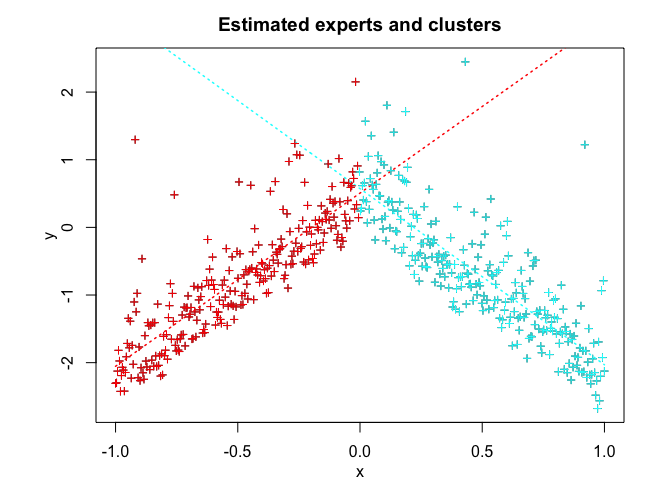
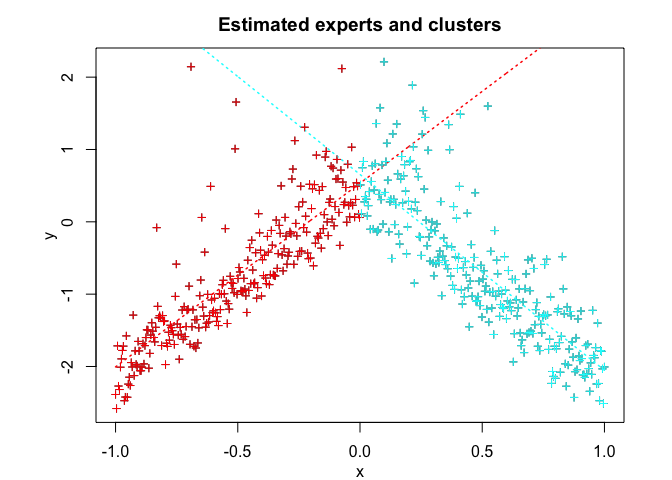
Change name of field 'nuk' in ParamStMoE class
- Change name of fields 'nuk' ('nuk' is changed into 'nu') in ParamStMoE class;
- Update vignette and README.Rmd (Add information about the model).

diff --git a/README.md b/README.md
@@ -5,7 +5,12 @@
 Overview
 ========
 
-User-friendly and flexible algorithm modelling, sampling, inference, and clustering heterogeneous data with the Skew-t Mixture-of-Experts (StMoE) model.
+**STMoE** (Skew-t Mixture-of-Experts) provides a flexible and robust modelling framework for heterogenous data with possibly skewed, heavy-tailed distributions and corrupted by atypical observations. **STMoE** consists of a mixture of *K* skew-t expert regressors network (of degree *p*) gated by a softmax gating network (of degree *q*) and is represented by:
+
+-   The gating network parameters `alpha`'s of the softmax net.
+-   The experts network parameters: The location parameters (regression coefficients) `beta`'s, scale parameters `sigma`'s, the skewness parameters `lambda`'s and the degree of freedom parameters `nu`'s. **STMoE** thus generalises mixtures of (normal, skew-normal, t, and skew-t) distributions and mixtures of regressions with these distributions. For example, when *q* = 0, we retrieve mixtures of (skew-t, t-, skew-normal, or normal) regressions, and when both *p* = 0 and *q* = 0, it is a mixture of (skew-t, t-, skew-normal, or normal) distributions. It also reduces to the standard (normal, skew-normal, t, and skew-t) distribution when we only use a single expert (*K* = 1).
+
+Model estimation/learning is performed by a dedicated expectation conditional maximization (ECM) algorithm by maximizing the observed data log-likelihood. We provide simulated examples to illustrate the use of the model in model-based clustering of heterogeneous regression data and in fitting non-linear regression functions.
 
 Installation
 ============
@@ -40,6 +45,8 @@ library(StMoE)
 ```
 
 ``` r
+# Applicartion to a simulated data set
+
 n <- 500 # Size of the sample
 alphak <- matrix(c(0, 8), ncol = 1) # Parameters of the gating network
 betak <- matrix(c(0, -2.5, 0, 2.5), ncol = 2) # Regression coefficients of the experts
@@ -65,83 +72,113 @@ verbose_IRLS <- FALSE
 
 stmoe <- emStMoE(X = x, Y = y, K, p, q, n_tries, max_iter, 
                  threshold, verbose, verbose_IRLS)
-#> EM - StMoE: Iteration: 1 | log-likelihood: -360.918219156259
-#> EM - StMoE: Iteration: 2 | log-likelihood: -340.312199740558
-#> EM - StMoE: Iteration: 3 | log-likelihood: -336.81199954955
-#> EM - StMoE: Iteration: 4 | log-likelihood: -334.678448612944
-#> EM - StMoE: Iteration: 5 | log-likelihood: -333.368786304469
-#> EM - StMoE: Iteration: 6 | log-likelihood: -332.378651904012
-#> EM - StMoE: Iteration: 7 | log-likelihood: -331.416370949352
-#> EM - StMoE: Iteration: 8 | log-likelihood: -330.311753264688
-#> EM - StMoE: Iteration: 9 | log-likelihood: -328.970616724365
-#> EM - StMoE: Iteration: 10 | log-likelihood: -327.36646546389
-#> EM - StMoE: Iteration: 11 | log-likelihood: -325.520020780522
-#> EM - StMoE: Iteration: 12 | log-likelihood: -323.49157231905
-#> EM - StMoE: Iteration: 13 | log-likelihood: -321.361097935629
-#> EM - StMoE: Iteration: 14 | log-likelihood: -319.21596748688
-#> EM - StMoE: Iteration: 15 | log-likelihood: -317.121529914793
-#> EM - StMoE: Iteration: 16 | log-likelihood: -315.129654375853
-#> EM - StMoE: Iteration: 17 | log-likelihood: -313.246021403366
-#> EM - StMoE: Iteration: 18 | log-likelihood: -311.455445437556
-#> EM - StMoE: Iteration: 19 | log-likelihood: -309.704743663328
-#> EM - StMoE: Iteration: 20 | log-likelihood: -307.923603673431
-#> EM - StMoE: Iteration: 21 | log-likelihood: -306.019731688503
-#> EM - StMoE: Iteration: 22 | log-likelihood: -303.901066199451
-#> EM - StMoE: Iteration: 23 | log-likelihood: -301.517077133633
-#> EM - StMoE: Iteration: 24 | log-likelihood: -298.871583437327
-#> EM - StMoE: Iteration: 25 | log-likelihood: -296.033769613469
-#> EM - StMoE: Iteration: 26 | log-likelihood: -293.105729159314
-#> EM - StMoE: Iteration: 27 | log-likelihood: -290.206753682348
-#> EM - StMoE: Iteration: 28 | log-likelihood: -287.445087104632
-#> EM - StMoE: Iteration: 29 | log-likelihood: -284.891400022567
-#> EM - StMoE: Iteration: 30 | log-likelihood: -282.588998983271
-#> EM - StMoE: Iteration: 31 | log-likelihood: -280.538384368292
-#> EM - StMoE: Iteration: 32 | log-likelihood: -278.722892569404
-#> EM - StMoE: Iteration: 33 | log-likelihood: -277.126497158683
-#> EM - StMoE: Iteration: 34 | log-likelihood: -275.718473001408
-#> EM - StMoE: Iteration: 35 | log-likelihood: -274.47750494225
-#> EM - StMoE: Iteration: 36 | log-likelihood: -273.385692944314
-#> EM - StMoE: Iteration: 37 | log-likelihood: -272.424525385644
-#> EM - StMoE: Iteration: 38 | log-likelihood: -271.580447029384
-#> EM - StMoE: Iteration: 39 | log-likelihood: -270.837718253819
-#> EM - StMoE: Iteration: 40 | log-likelihood: -270.183014154754
-#> EM - StMoE: Iteration: 41 | log-likelihood: -269.604365407485
-#> EM - StMoE: Iteration: 42 | log-likelihood: -269.092069487677
-#> EM - StMoE: Iteration: 43 | log-likelihood: -268.638534752714
-#> EM - StMoE: Iteration: 44 | log-likelihood: -268.237219536561
-#> EM - StMoE: Iteration: 45 | log-likelihood: -267.881642979585
-#> EM - StMoE: Iteration: 46 | log-likelihood: -267.566373686613
-#> EM - StMoE: Iteration: 47 | log-likelihood: -267.287556449449
-#> EM - StMoE: Iteration: 48 | log-likelihood: -267.041240612947
-#> EM - StMoE: Iteration: 49 | log-likelihood: -266.823545537698
-#> EM - StMoE: Iteration: 50 | log-likelihood: -266.630898066496
-#> EM - StMoE: Iteration: 51 | log-likelihood: -266.460485139253
-#> EM - StMoE: Iteration: 52 | log-likelihood: -266.309690019672
-#> EM - StMoE: Iteration: 53 | log-likelihood: -266.176275700902
-#> EM - StMoE: Iteration: 54 | log-likelihood: -266.058299377502
-#> EM - StMoE: Iteration: 55 | log-likelihood: -265.954030565764
-#> EM - StMoE: Iteration: 56 | log-likelihood: -265.861857108267
-#> EM - StMoE: Iteration: 57 | log-likelihood: -265.780554931916
-#> EM - StMoE: Iteration: 58 | log-likelihood: -265.708884053501
-#> EM - StMoE: Iteration: 59 | log-likelihood: -265.645859773318
-#> EM - StMoE: Iteration: 60 | log-likelihood: -265.590923652102
-#> EM - StMoE: Iteration: 61 | log-likelihood: -265.543076918013
-#> EM - StMoE: Iteration: 62 | log-likelihood: -265.501460541303
-#> EM - StMoE: Iteration: 63 | log-likelihood: -265.465422522564
-#> EM - StMoE: Iteration: 64 | log-likelihood: -265.434206715802
-#> EM - StMoE: Iteration: 65 | log-likelihood: -265.407252143426
-#> EM - StMoE: Iteration: 66 | log-likelihood: -265.384060024206
-#> EM - StMoE: Iteration: 67 | log-likelihood: -265.364189492324
-#> EM - StMoE: Iteration: 68 | log-likelihood: -265.34726752057
-#> EM - StMoE: Iteration: 69 | log-likelihood: -265.333111496709
-#> EM - StMoE: Iteration: 70 | log-likelihood: -265.321370917609
-#> EM - StMoE: Iteration: 71 | log-likelihood: -265.311847233682
-#> EM - StMoE: Iteration: 72 | log-likelihood: -265.304507732154
-#> EM - StMoE: Iteration: 73 | log-likelihood: -265.298987571741
-#> EM - StMoE: Iteration: 74 | log-likelihood: -265.295016966408
-#> EM - StMoE: Iteration: 75 | log-likelihood: -265.292399201274
+#> EM - StMoE: Iteration: 1 | log-likelihood: -401.875435809204
+#> EM - StMoE: Iteration: 2 | log-likelihood: -337.477110077301
+#> EM - StMoE: Iteration: 3 | log-likelihood: -333.615767910121
+#> EM - StMoE: Iteration: 4 | log-likelihood: -330.111312841908
+#> EM - StMoE: Iteration: 5 | log-likelihood: -326.917627211007
+#> EM - StMoE: Iteration: 6 | log-likelihood: -324.051395332145
+#> EM - StMoE: Iteration: 7 | log-likelihood: -321.514182102334
+#> EM - StMoE: Iteration: 8 | log-likelihood: -319.290135019707
+#> EM - StMoE: Iteration: 9 | log-likelihood: -317.345441551248
+#> EM - StMoE: Iteration: 10 | log-likelihood: -315.63985448757
+#> EM - StMoE: Iteration: 11 | log-likelihood: -314.124403121355
+#> EM - StMoE: Iteration: 12 | log-likelihood: -312.764765497604
+#> EM - StMoE: Iteration: 13 | log-likelihood: -311.53880220896
+#> EM - StMoE: Iteration: 14 | log-likelihood: -310.442219383031
+#> EM - StMoE: Iteration: 15 | log-likelihood: -309.461472055389
+#> EM - StMoE: Iteration: 16 | log-likelihood: -308.56567749316
+#> EM - StMoE: Iteration: 17 | log-likelihood: -307.716979842876
+#> EM - StMoE: Iteration: 18 | log-likelihood: -306.878441159492
+#> EM - StMoE: Iteration: 19 | log-likelihood: -306.015921604392
+#> EM - StMoE: Iteration: 20 | log-likelihood: -305.101893903146
+#> EM - StMoE: Iteration: 21 | log-likelihood: -304.119133583187
+#> EM - StMoE: Iteration: 22 | log-likelihood: -303.054099432744
+#> EM - StMoE: Iteration: 23 | log-likelihood: -301.905764906729
+#> EM - StMoE: Iteration: 24 | log-likelihood: -300.685652021046
+#> EM - StMoE: Iteration: 25 | log-likelihood: -299.419897252595
+#> EM - StMoE: Iteration: 26 | log-likelihood: -298.14232003597
+#> EM - StMoE: Iteration: 27 | log-likelihood: -296.891003783925
+#> EM - StMoE: Iteration: 28 | log-likelihood: -295.695879770797
+#> EM - StMoE: Iteration: 29 | log-likelihood: -294.584368951117
+#> EM - StMoE: Iteration: 30 | log-likelihood: -293.571367218735
+#> EM - StMoE: Iteration: 31 | log-likelihood: -292.661755632404
+#> EM - StMoE: Iteration: 32 | log-likelihood: -291.859412580661
+#> EM - StMoE: Iteration: 33 | log-likelihood: -291.157070745516
+#> EM - StMoE: Iteration: 34 | log-likelihood: -290.548867853095
+#> EM - StMoE: Iteration: 35 | log-likelihood: -290.024516787423
+#> EM - StMoE: Iteration: 36 | log-likelihood: -289.579343050895
+#> EM - StMoE: Iteration: 37 | log-likelihood: -289.204274620518
+#> EM - StMoE: Iteration: 38 | log-likelihood: -288.887304783523
+#> EM - StMoE: Iteration: 39 | log-likelihood: -288.619299932711
+#> EM - StMoE: Iteration: 40 | log-likelihood: -288.394060854014
+#> EM - StMoE: Iteration: 41 | log-likelihood: -288.208138736313
+#> EM - StMoE: Iteration: 42 | log-likelihood: -288.057211115457
+#> EM - StMoE: Iteration: 43 | log-likelihood: -287.935937429852
+#> EM - StMoE: Iteration: 44 | log-likelihood: -287.837686760774
+#> EM - StMoE: Iteration: 45 | log-likelihood: -287.758009324673
+#> EM - StMoE: Iteration: 46 | log-likelihood: -287.693505506518
+#> EM - StMoE: Iteration: 47 | log-likelihood: -287.641479121032
+#> EM - StMoE: Iteration: 48 | log-likelihood: -287.601070274841
+#> EM - StMoE: Iteration: 49 | log-likelihood: -287.571480227775
+#> EM - StMoE: Iteration: 50 | log-likelihood: -287.550936521553
+#> EM - StMoE: Iteration: 51 | log-likelihood: -287.537249640429
+#> EM - StMoE: Iteration: 52 | log-likelihood: -287.529681605006
+#> EM - StMoE: Iteration: 53 | log-likelihood: -287.526784058083
+#> EM - StMoE: Iteration: 54 | log-likelihood: -287.527417246547
 
 stmoe$plot()
 ```
 
 <img src="man/figures/README-unnamed-chunk-6-1.png" style="display: block; margin: auto;" /><img src="man/figures/README-unnamed-chunk-6-2.png" style="display: block; margin: auto;" /><img src="man/figures/README-unnamed-chunk-6-3.png" style="display: block; margin: auto;" /><img src="man/figures/README-unnamed-chunk-6-4.png" style="display: block; margin: auto;" />
+
+``` r
+# Applicartion to a real data set
+
+library(MASS)
+data("mcycle")
+x <- mcycle$times
+y <- mcycle$accel
+
+K <- 4 # Number of regressors/experts
+p <- 2 # Order of the polynomial regression (regressors/experts)
+q <- 1 # Order of the logistic regression (gating network)
+
+n_tries <- 1
+max_iter <- 1500
+threshold <- 1e-5
+verbose <- TRUE
+verbose_IRLS <- FALSE
+
+stmoe <- emStMoE(X = x, Y = y, K, p, q, n_tries, max_iter, 
+                 threshold, verbose, verbose_IRLS)
+#> EM - StMoE: Iteration: 1 | log-likelihood: -594.443848052501
+#> EM - StMoE: Iteration: 2 | log-likelihood: -588.502181624495
+#> EM - StMoE: Iteration: 3 | log-likelihood: -584.186980702196
+#> EM - StMoE: Iteration: 4 | log-likelihood: -582.404030975252
+#> EM - StMoE: Iteration: 5 | log-likelihood: -580.937813111496
+#> EM - StMoE: Iteration: 6 | log-likelihood: -579.423652549973
+#> EM - StMoE: Iteration: 7 | log-likelihood: -576.622050361883
+#> EM - StMoE: Iteration: 8 | log-likelihood: -570.953747711981
+#> EM - StMoE: Iteration: 9 | log-likelihood: -565.635572832749
+#> EM - StMoE: Iteration: 10 | log-likelihood: -562.282158040806
+#> EM - StMoE: Iteration: 11 | log-likelihood: -560.730917766499
+#> EM - StMoE: Iteration: 12 | log-likelihood: -559.942176077191
+#> EM - StMoE: Iteration: 13 | log-likelihood: -559.405646251887
+#> EM - StMoE: Iteration: 14 | log-likelihood: -558.951217277183
+#> EM - StMoE: Iteration: 15 | log-likelihood: -558.507765685732
+#> EM - StMoE: Iteration: 16 | log-likelihood: -558.029259677093
+#> EM - StMoE: Iteration: 17 | log-likelihood: -557.483925261304
+#> EM - StMoE: Iteration: 18 | log-likelihood: -556.885711396855
+#> EM - StMoE: Iteration: 19 | log-likelihood: -556.335191609929
+#> EM - StMoE: Iteration: 20 | log-likelihood: -555.93437847599
+#> EM - StMoE: Iteration: 21 | log-likelihood: -555.69829587786
+#> EM - StMoE: Iteration: 22 | log-likelihood: -555.581028161933
+#> EM - StMoE: Iteration: 23 | log-likelihood: -555.528856112894
+#> EM - StMoE: Iteration: 24 | log-likelihood: -555.508227478769
+#> EM - StMoE: Iteration: 25 | log-likelihood: -555.504406448179
+
+stmoe$plot()
+```
+
+<img src="man/figures/README-unnamed-chunk-7-1.png" style="display: block; margin: auto;" /><img src="man/figures/README-unnamed-chunk-7-2.png" style="display: block; margin: auto;" /><img src="man/figures/README-unnamed-chunk-7-3.png" style="display: block; margin: auto;" /><img src="man/figures/README-unnamed-chunk-7-4.png" style="display: block; margin: auto;" />
